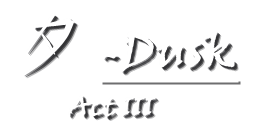
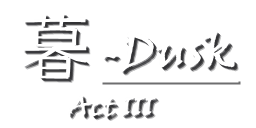
Dusk gets 暮, drawn
The tester's call: 夕 is the evening, 暮 is nightfall -- the sun going under
the grass -- and nightfall is what the act is. Fourteen strokes against
four, all hand-placed as ribbons in brush.ps1, and it still reads at the
card's 66 pixels.

夕 stays in the file, unused, with a note. It was never wrong; it was just
not the word chosen.

Changed region(s): [[0.0938, 0.125, 0.375, 0.6562]]

diff --git a/reborn.md b/reborn.md
@@ -387,16 +387,24 @@ it ever reached a device — which is why the game looks the same and why
   finale **on `endAct` before 200 s** — not on its 240 s backstop. The chain
   breaking would still let the level finish, just four minutes late, so the
   *deadline* is the test.
-- **🎨 The act cards, as one family again.** New **雨 -Rain / Act IV**; the
-  finale's card keeps its hand-painted 2009 水 -Water and rule, with only the
-  line beneath redrawn from "Act IV" to **"Final"** (the same surgery it had
-  in round 19 when it read "Act iii"). And **`duskTitle.png` was rebuilt**: its
-  kanji 夕 was right all along — I had claimed otherwise from a thumbnail and
-  was wrong — but its *weight* was not. It was the one card drawn in Brush
-  Script MT, thinner and greyer than the four painted ones, and it stood out.
-  The Latin hand is now Viner Hand ITC Bold, picked against the shipped cards
-  in a candidate sheet; the kanji is a Song face widened by a round pen, whose
-  wedge stroke endings read closer to a brush than Yu Gothic's uniform slab.
+- **🎨 The act cards, as one family again — and the kanji are DRAWN now.** New
+  **雨 -Rain / Act IV**; the finale keeps its hand-painted 2009 水 -Water and
+  rule with only the line beneath redrawn from "Act IV" to **"Final"** (the
+  same surgery it had in round 19 when it read "Act iii"); and the dusk card
+  was rebuilt twice, which is the interesting part. First pass: new weight,
+  new Latin hand (Viner Hand ITC Bold, picked against the shipped cards in a
+  candidate sheet), new rule — and the tester looked at it and said *the kanji
+  has not changed*. He was right. It was still a font glyph, and **no
+  installed CJK face is a brush**: Yu Gothic is a uniform slab, SimSun only has
+  small wedge serifs, while the 2009 kanji have a blunt entry, a belly and a
+  tapered exit on every stroke. So `tools/cards/brush.ps1` now DRAWS them —
+  each stroke is a centreline with a width at every control point, swept into
+  a ribbon, unioned with the winding rule (the alternate rule punches a hole
+  at every crossing, which is what the first render did). Second pass: the
+  character itself. I had claimed 夕 was a mis-set katakana, then found it was
+  a perfectly good kanji and said so; the tester chose **暮** anyway, and it is
+  the better word — 夕 is the evening, 暮 is nightfall. Fourteen strokes
+  against four, all hand-placed.
 - **No build.** Nothing here has been on a device yet: the act is proven by the
   validator (statically, on the real files, through the engine's own lexer)
   and by the arithmetic and netcode benches staying green. The Simulator proof

diff --git a/tools/cards/README.md b/tools/cards/README.md
@@ -7,7 +7,7 @@ The five cards the acts show at their prolog (`data/data/titles/*.png`,
 |---|---|---|
 | 明 – Dawn / Act I | `dawnTitle.png` | painted, 2009 |
 | 希望 – Hope / Act II | `hopeTitle.png` | painted, 2009 |
-| 夕 – Dusk / Act III | `duskTitle.png` | here |
+| 暮 – Dusk / Act III | `duskTitle.png` | here |
 | 雨 – Rain / Act IV | `rainTitle.png` | here |
 | 水 – Water / Final | `boss.png` | painted 2009, with only the line beneath redrawn |
 
@@ -40,3 +40,7 @@ render did.
 Adding a character means adding a stroke list. The fastest way to place the
 control points is to render the font glyph large under a grid, read the
 skeleton off it, then iterate: the shapes here took three passes.
+
+`$KANJI_YUU` (夕, four strokes) is kept even though the dusk card no longer
+uses it — the tester picked 暮 over it. Both say dusk; 夕 is the evening
+itself and 暮 is nightfall, the sun going under the grass.
